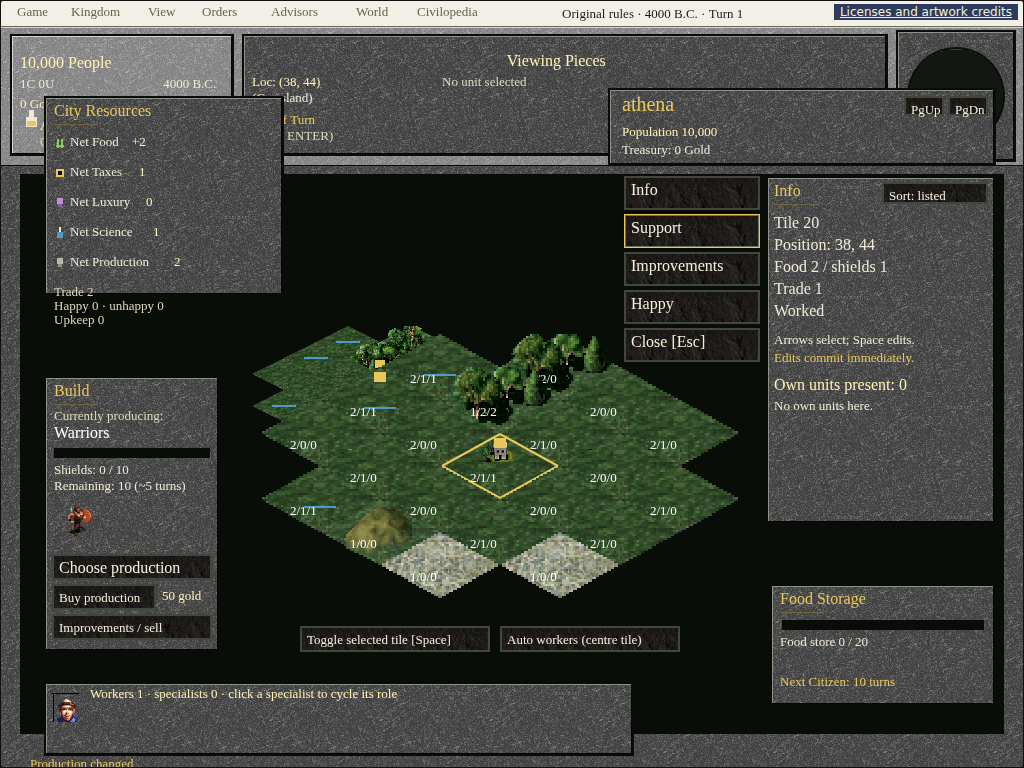
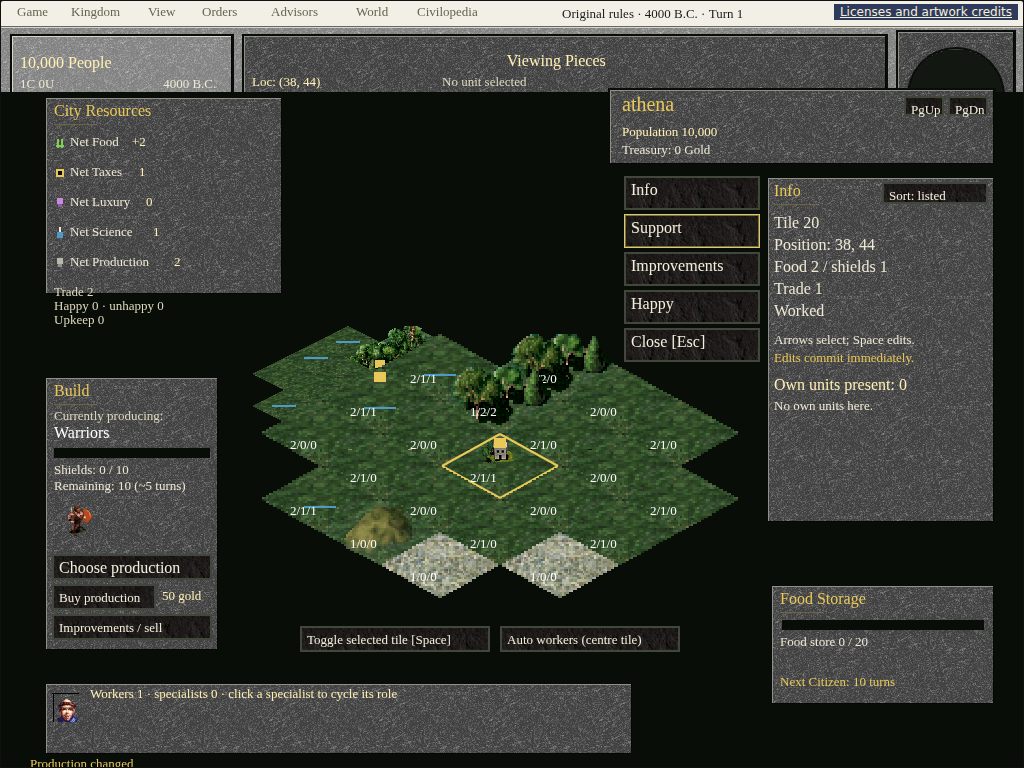
Cut the city surface on a band text line
The floating city window started at the band's middle, so band prompts
underneath it were cut in half and peeked out between panels ("ing Units",
half of "(Grassland)"); the original's city screen instead keeps the band's
first lines and covers the rest with the city surface.

Draw the band first, then the city surface from CITY_TOP (92), then the map
and panels. The cut sits on a band text line boundary, so no prompt is
straddled; a client test pins the position, the paint order and that no band
text crosses the boundary. The manual's city screenshot is regenerated.

make test, client tests, fmt and strict clippy for both feature sets pass;
the engine baseline follows the mod.rs change.

Changed region(s): [[0.0, 0.0938, 1.0, 1.0]]

diff --git a/crates/totui/src/client/tests.rs b/crates/totui/src/client/tests.rs
@@ -4888,6 +4888,48 @@ fn layout_b_city_and_science_windows_rearrange_without_touching_the_game() {
 }
 
 #[test]
+fn city_window_starts_on_a_band_text_boundary() {
+    let f = Fixture::new();
+    let mut c = f.client();
+    start(&mut c);
+    founding(&mut c);
+    open_city(&mut c);
+    let draws = c.frame().draws;
+    // The band stays at the top (menu + first lines); the city surface then
+    // covers it before the panels, as the original city screen does. The cut
+    // sits on a text line boundary: a band line must never straddle it, or a
+    // prompt would peek out from under a panel (#439).
+    let cover = draws
+        .iter()
+        .position(|d| {
+            matches!(d, Draw::Rect { x, y, w, color, .. }
+                if *x == 0.
+                    && *y == city::CITY_TOP
+                    && *w == f64::from(WIDTH)
+                    && color == style::INSET)
+        })
+        .expect("the city surface covers the band below its top strip");
+    for d in &draws[..cover] {
+        if let Draw::Text { y, size, .. } = d {
+            assert!(
+                *y + f64::from(*size) <= city::CITY_TOP || *y >= city::CITY_TOP,
+                "band text at {y} straddles the city surface at {}",
+                city::CITY_TOP
+            );
+        }
+    }
+    // Hidden band prompts are painted, then covered; city text follows.
+    assert!(draws[..cover]
+        .iter()
+        .any(|d| matches!(d, Draw::Text { y, .. } if y >= &city::CITY_TOP)));
+    let title = draws
+        .iter()
+        .position(|d| matches!(d, Draw::Text { text, .. } if text == "Athena"))
+        .unwrap();
+    assert!(title > cover, "the city panels paint over the cover");
+}
+
+#[test]
 fn layout_b_order_strip_and_message_dock_are_opt_in_and_inert() {
     let f = Fixture::new();
     let mut c = f.client();

diff --git a/crates/totui/src/client/mod.rs b/crates/totui/src/client/mod.rs
@@ -2811,18 +2811,23 @@ impl Client {
         if let Some(v) = &view {
             if self.city_open {
                 // Decision 0009 / #439: the original's city window floats
-                // over the map screen, not over an empty background.
-                draws.push(Draw::Tile {
-                    x: 0.,
-                    y: self.frame_top() - 4.,
-                    w: self.stage_w,
-                    h: 768. - self.frame_top() + 4.,
-                    sprite: "panel-mid".into(),
-                });
+                // over the map screen, not over an empty background. The
+                // original keeps the band's top strip (status, Loc, Viewing
+                // Pieces) and its city surface covers the band's lower part,
+                // so the band is drawn first and the surface starts on a text
+                // line boundary; otherwise a half-covered prompt peeks out
+                // between the panels.
+                self.band_draw(&mut draws, v);
+                draws.push(rect(
+                    0.,
+                    city::CITY_TOP,
+                    self.stage_w,
+                    768. - city::CITY_TOP,
+                    style::INSET,
+                ));
                 let (mx, my, mw, mh) = self.map_rect();
                 draws.push(rect(mx, my, mw, mh, style::INSET));
                 self.map_draw(&mut draws, v);
-                self.band_draw(&mut draws, v);
                 let start = draws.len();
                 self.city_draw(&mut draws, v);
                 shift(&mut draws[start..], self.dx());

diff --git a/crates/totui/src/client/city.rs b/crates/totui/src/client/city.rs
@@ -9,6 +9,10 @@ use super::style;
 use super::*;
 use engine::yields::{RADIUS_DX, RADIUS_DY};
 
+/// Where the city surface begins over the band. The original keeps the
+/// band's first lines (status, Loc, Viewing Pieces) and covers the rest; the
+/// value sits on a band text boundary so no prompt is cut in half.
+pub(super) const CITY_TOP: f64 = 92.;
 /// City Resources panel `(x, y, w, h)` at the top left.
 pub(super) const RESOURCES: (f64, f64, f64, f64) = (44., 96., 240., 200.);
 /// Build panel at the left, below City Resources.

diff --git a/docs/ui/original-frame.md b/docs/ui/original-frame.md
@@ -73,8 +73,11 @@ The city screen floats stone panels over the map, as the original:
 Every Layout B panel, command and immediate-edit rule is kept; the footer
 Save/Load/Research and Previous/Next city buttons are gone, as the original's
 city window does not show them (Ctrl+S/Ctrl+L, F6, PageUp/PageDown and the
-menus keep those commands). The map, band and menu bar stay visible behind
-the panels, as in the capture.
+menus keep those commands). As in the capture, the menu bar and the band's
+first lines (status, `Loc:`, the centre prompt) stay visible above the city
+surface; the surface then covers the band before the panels begin. The cut
+sits on a band text line boundary (`city::CITY_TOP`) so no prompt is left
+half-visible between panels; a client test pins that.
 
 Gaps: the install exposes no resource or improvement icon sheet here, so the
 City Resources markers and tile yields are drawn or numeric rather than the
